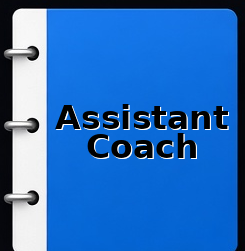
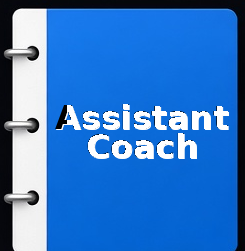
Make every binder cover title white.
The uploaded blue, purple, and brown files still had black lettering, so those title pixels are white now. The Instructor cover is the uploaded PNG, already white on the red spine.

Changed region(s): [[0.2571, 0.4183, 0.9429, 0.6414]]

diff --git a/src/components/InstructorInvitePanel.tsx b/src/components/InstructorInvitePanel.tsx
@@ -352,7 +352,7 @@ function BinderIcon({ presetId, alt = '' }: { presetId: InstructorPresetId | nul
   const art = BINDER_ART[presetId];
   return (
     <span className={`role-binder role-binder--${presetId}`}>
-      <img src={`${art.src}?v=white`} alt={alt} draggable={false} width={art.width} height={art.height} />
+      <img src={`${art.src}?v=white2`} alt={alt} draggable={false} width={art.width} height={art.height} />
     </span>
   );
 }
